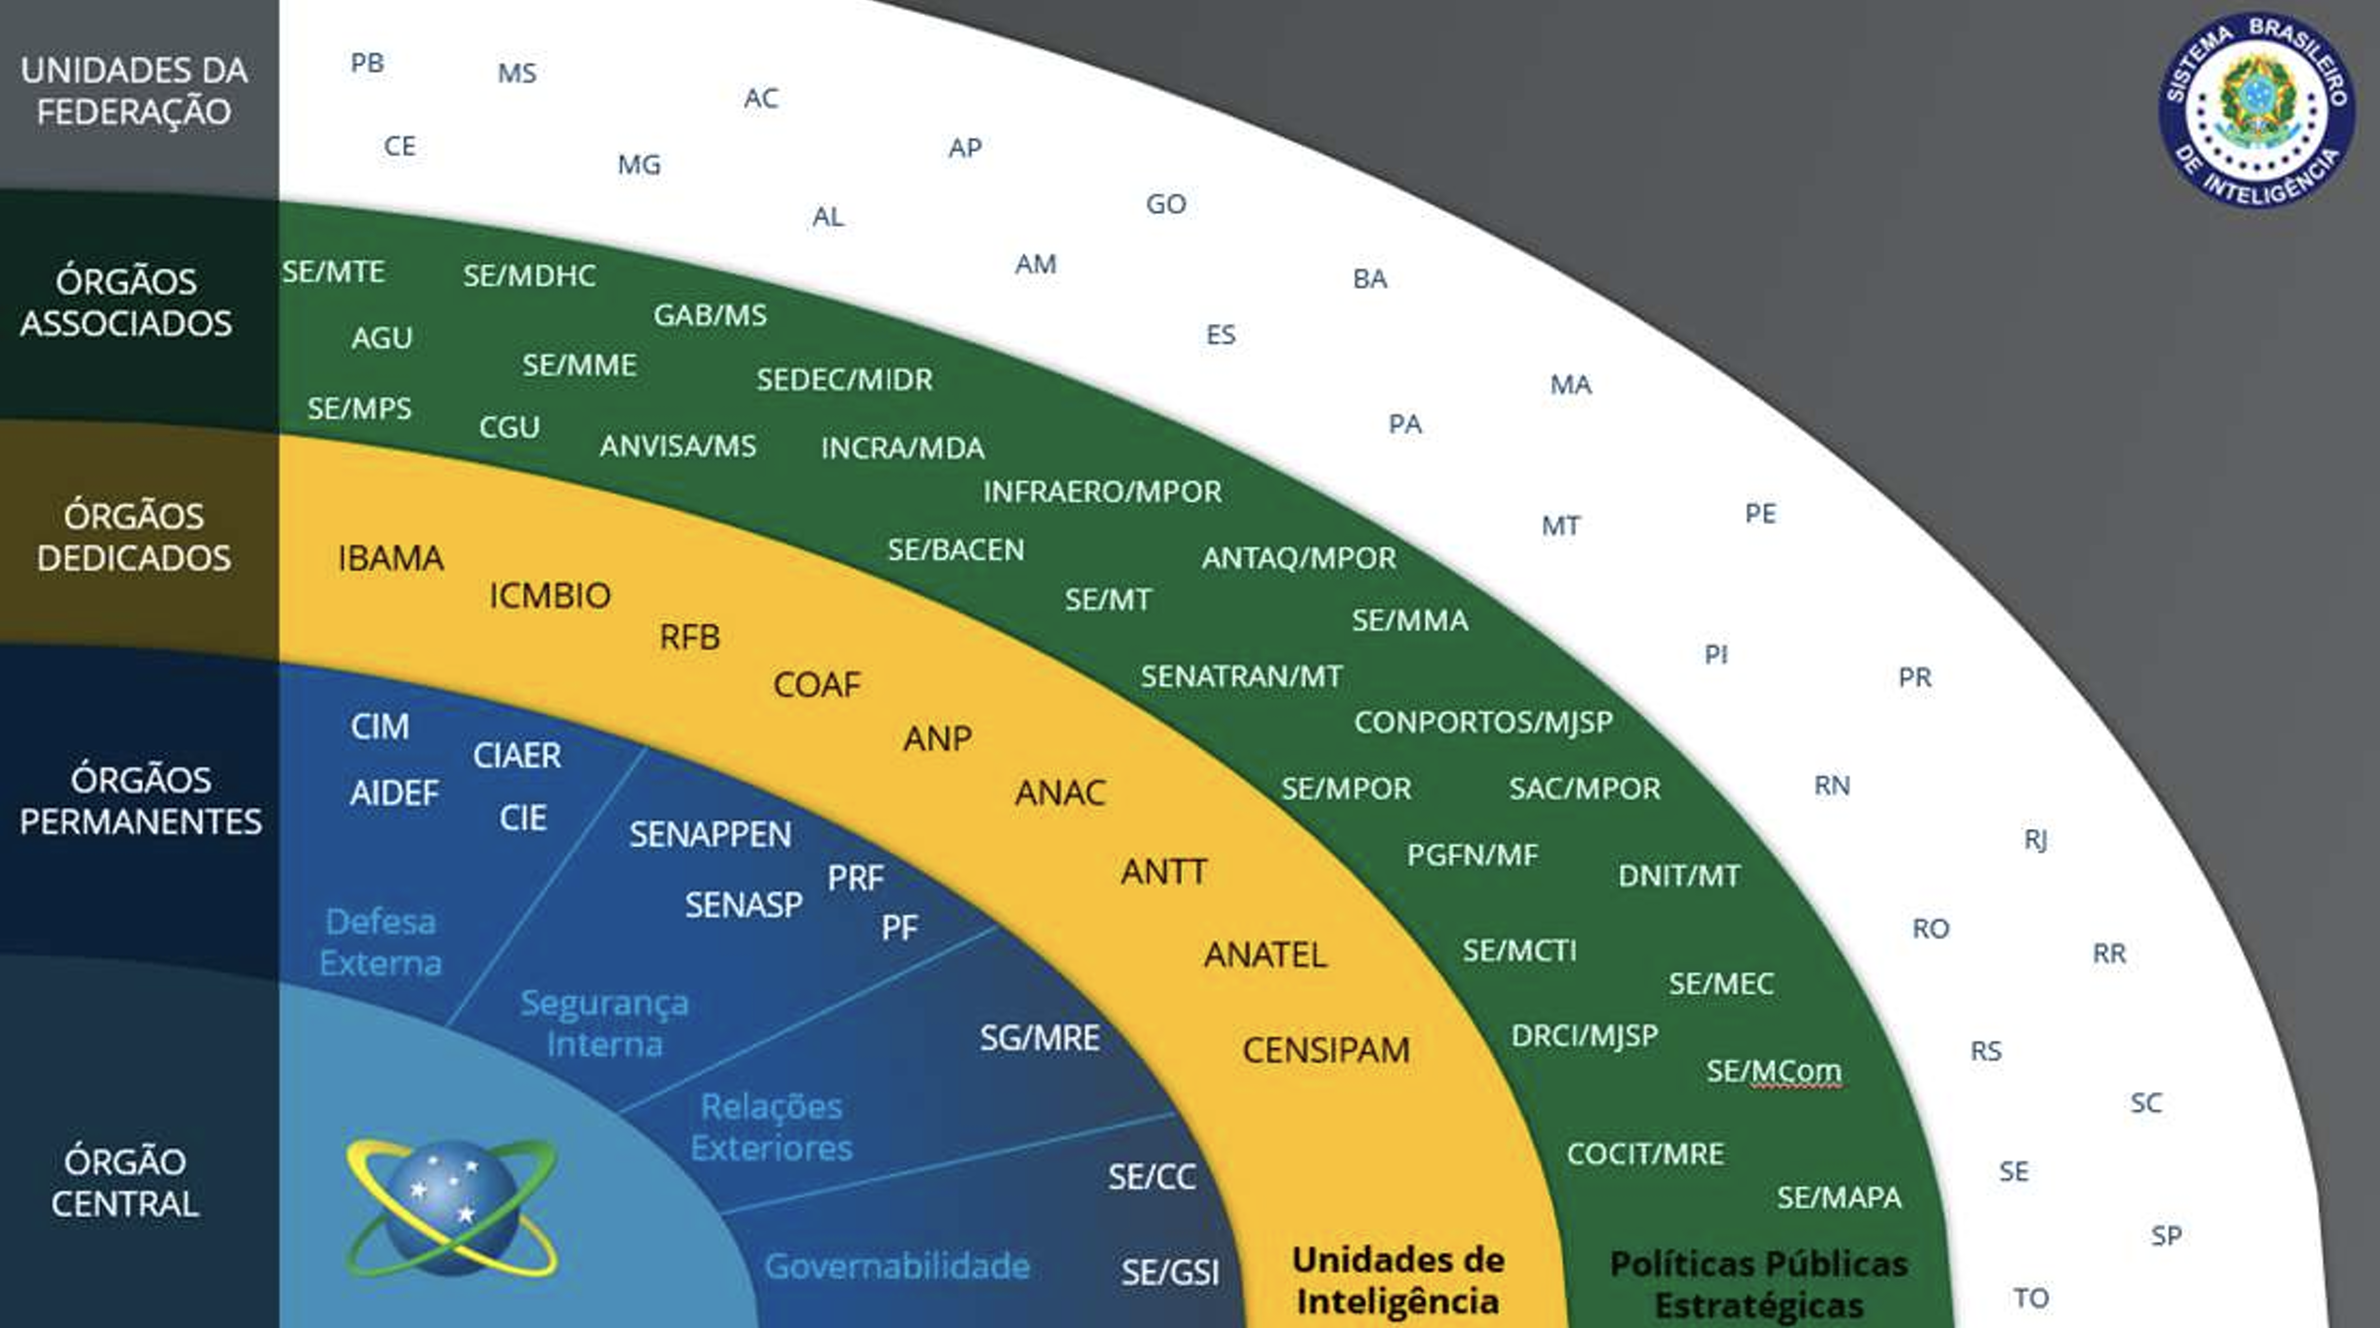
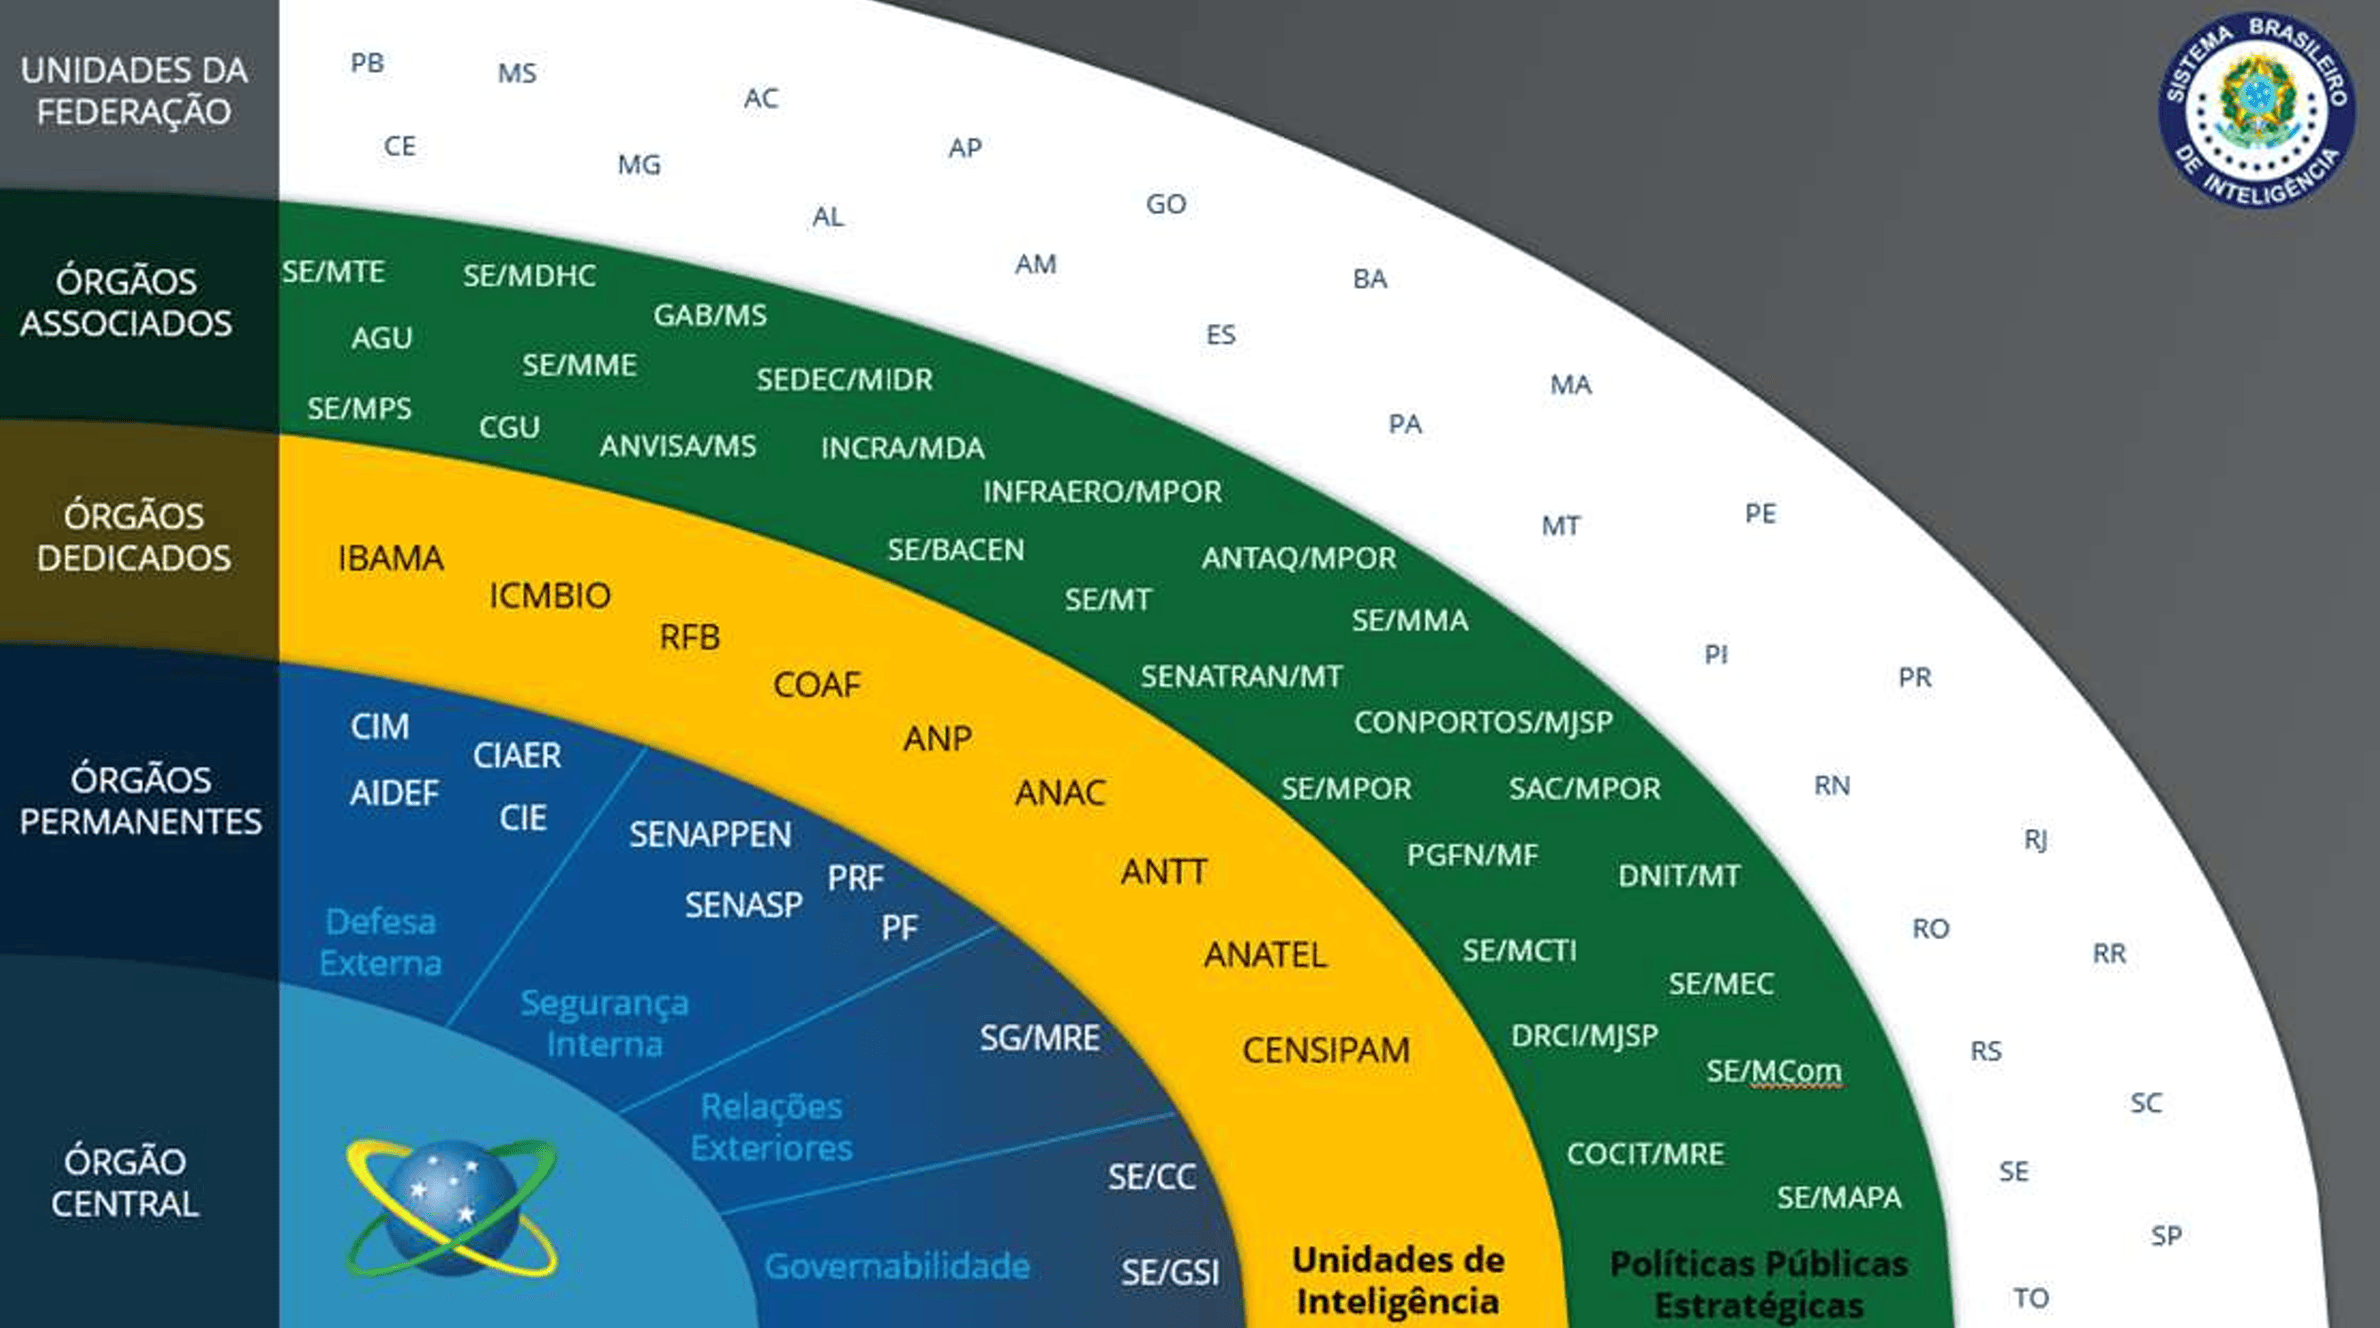
Otimiza imagens da Aula 8 — redução significativa de tamanho
PNGs comprimidos com pngquant (-60 a -75%), JPEGs redimensionados e
recomprimidos (curso-visita 4.8M→168K, daniel-cco 1.3M→196K), GIFs
animados convertidos para WebP (redemais-portal -57%, santos -23%).

diff --git a/materiais/aula-8-planejamento-inteligencia/slide-43.html b/materiais/aula-8-planejamento-inteligencia/slide-43.html
@@ -119,7 +119,7 @@
       <figure class="sat-figure">
         <div class="frame">
           <span class="sat-badge"><span class="dot"></span> Antes × Depois</span>
-          <img src="Imagens/santos-comparativo.gif" alt="Comparação de imagens de satélite do Porto de Santos em duas datas distintas"/>
+          <img src="Imagens/santos-comparativo.webp" alt="Comparação de imagens de satélite do Porto de Santos em duas datas distintas"/>
         </div>
         <figcaption>
           <i class="fas fa-satellite"></i>

diff --git a/materiais/aula-8-planejamento-inteligencia/slide-44.html b/materiais/aula-8-planejamento-inteligencia/slide-44.html
@@ -90,7 +90,7 @@
     <!-- Figura -->
     <div class="figure-side">
       <figure class="portal-figure">
-        <img src="Imagens/redemais-portal.gif" alt="Portal RedeMAIS com o Dashboard de Alertas"/>
+        <img src="Imagens/redemais-portal.webp" alt="Portal RedeMAIS com o Dashboard de Alertas"/>
         <figcaption><i class="fas fa-display"></i> Portal RedeMAIS — Dashboard de Alertas</figcaption>
       </figure>
     </div>
